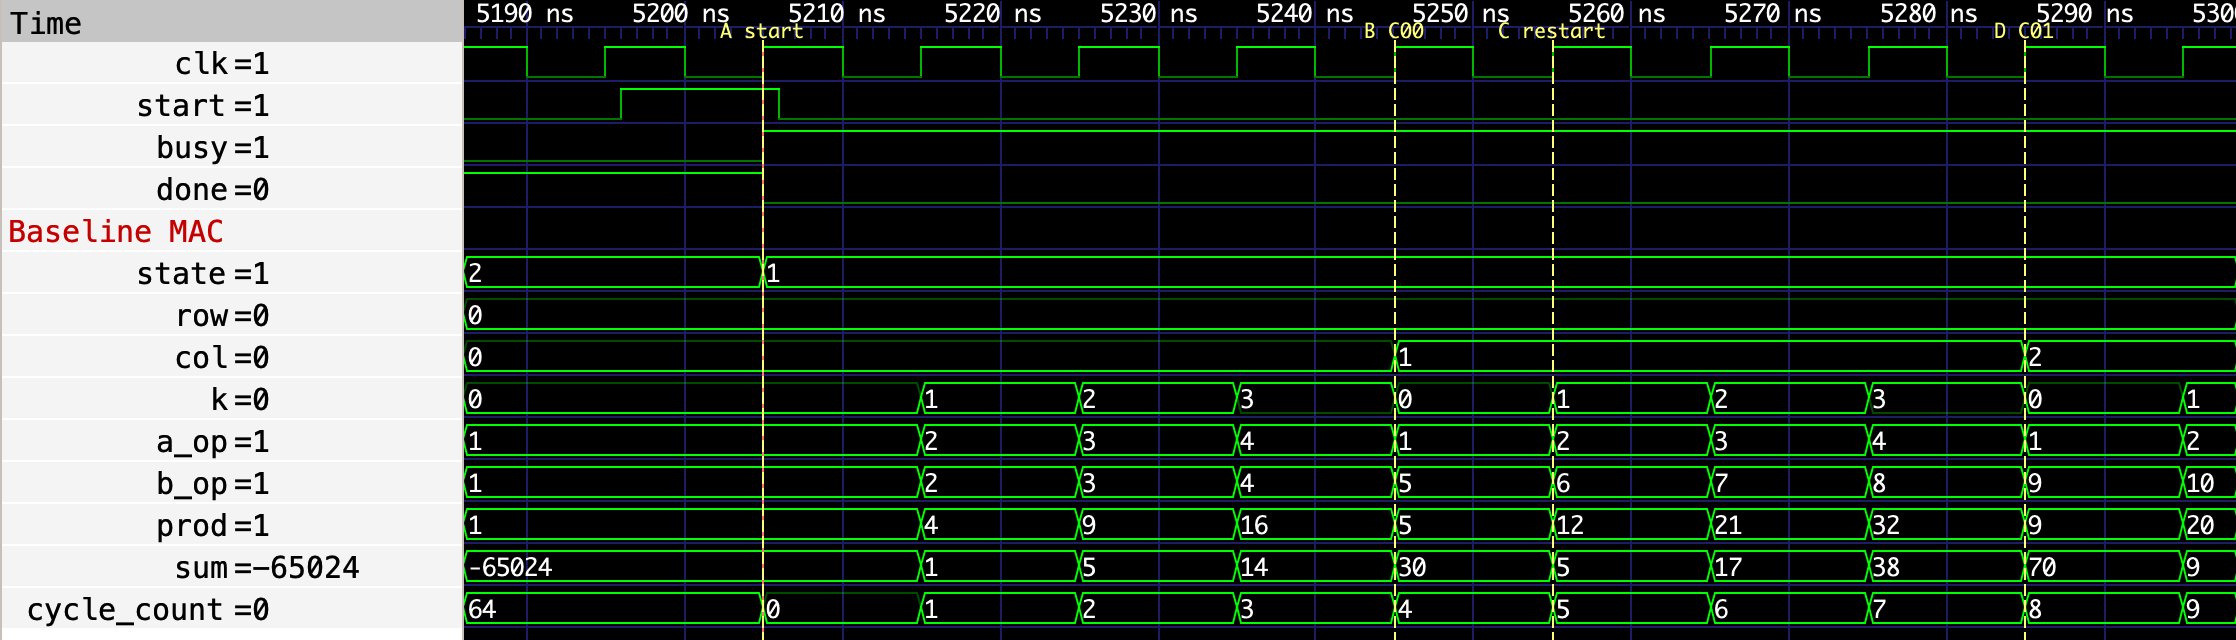
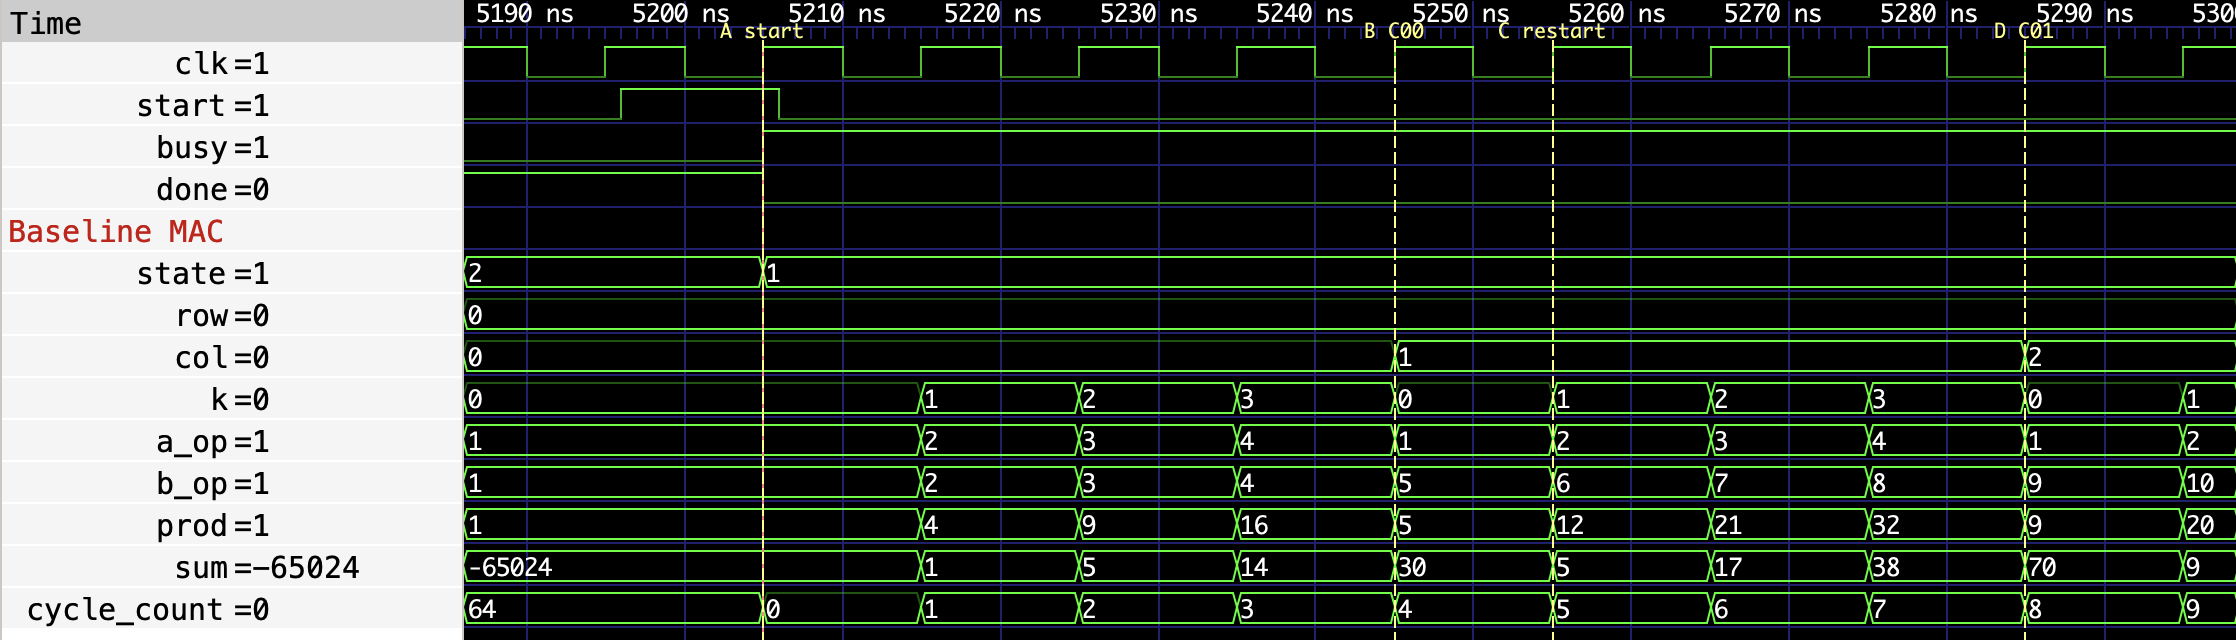
docs(results): add the K ≠ N and accumulate captures
Re-records the baseline captures on the merged baseline and adds the k_len = 5
and accumulate captures, with captions giving each marker's cycle numbers.

diff --git a/results/phase2/waveforms/captions.md b/results/phase2/waveforms/captions.md
@@ -1,8 +1,19 @@
 # Waveform captures (Phase 2)
 
-GTKWave 3.4 captures, opened with the layouts in `sim/waves/` and `sim/waves/report.gtkwaverc` (the commands are at the top of each `.gtkw` file). The letters refer to the named markers in each capture. Both show golden case 5, the known product (A = 1…16, B = Aᵀ), on the sequential baseline `seq_matmul`.
+GTKWave 3.4 captures, opened with the layouts in `sim/waves/` and `sim/waves/report.gtkwaverc` (the commands are at the top of each `.gtkw` file). The letters refer to the named markers in each capture. Times are in the VCD that `make sim-seq_matmul` or `make sim-systolic_top` writes to `build/`.
+
+## Sequential baseline (`tb_seq_matmul`)
+
+Both show golden case 5, the known product (A = 1…16, B = Aᵀ), with `k_len` = 4.
 
 | Capture | Caption |
 |---|---|
 | `seq_matmul.png` | The single MAC on the first two elements of C: `start` is taken (A), and over the next four cycles `k` steps 0 to 3 while the products 1, 4, 9 and 16 build the running sum 1, 5, 14, 30. C[0][0] = 30 is written as `col` moves on (B). The sum then restarts from the new product, 1·5 = 5, instead of adding to 30 (C), and C[0][1] = 70 is written four cycles later (D). Before A, `sum` still holds the last value of the previous run, which is ignored. |
-| `seq_matmul_run.png` | One whole baseline run: `busy` stays high from `start` (A) to `done` (B) for 64 cycles, N²K for N = 4. `row` and `col` step through all 16 elements of C, four cycles each, and `cycle_count` reads 64 in DONE, against 12 for the array in `results/phase1/waveforms/systolic_top.png`. |
+| `seq_matmul_run.png` | One whole baseline run: `busy` stays high from `start` (A) to `done` (B) for 64 cycles, N²·`k_len` for N = `k_len` = 4. `row` and `col` step through all 16 elements of C, four cycles each, and `cycle_count` reads 64 in DONE, against 12 for the array in `results/phase1/waveforms/systolic_top.png`. |
+
+## Accelerator with a run-time inner length (`tb_systolic_top`)
+
+| Capture | Caption |
+|---|---|
+| `systolic_top_klen.png` | A run with `k_len` = 5, K ≠ N case 6 (`ones_k5`): A and B are all 1 for k < 5, and random filler is stored past k = 5. `start` is taken with `k_len` = 5, which the controller copies into `run_k_len` (A). After one CLEAR cycle, COMPUTE runs from step 0 (B) to step 10 (C), so T = `k_len` + 2N − 2 = 11 steps instead of the 10 of a `k_len` = 4 run. PE (0,0) adds its five products in steps 0 to 4 (`acc` 1 to 5), and PE (3,3), the last to start, adds its five in steps 6 to 10. After CAPTURE, `done` rises with `cycle_count` = `k_len` + 2N = 13 (D). The filler never reaches the array, so every element of C is 5. |
+| `systolic_top_accumulate.png` | The second and third chunks of tiled product 2 (4×40×4: one tile, chunks of 16, 16 and 8). Before A, the first chunk has finished as a normal run (`cycle_count` = 24) and the host has written the second chunk's operands. That start has `accumulate` high (A), so `state` goes from DONE (4) straight to COMPUTE (2): there is no CLEAR, `clear` stays low, and PE (0,0) carries on from its partial sum of −28,112 to −53,993. `done` rises with `cycle_count` = 16 + 2N − 1 = 23 (B). The host then writes the third chunk's operands (`a_we` high for N·`k_len` = 32 cycles) and starts it with `k_len` = 8 and `accumulate` high (C). It ends with `cycle_count` = 8 + 2N − 1 = 15, and PE (0,0) holds −83,993, the expected C[0][0] of the whole product (D). |
